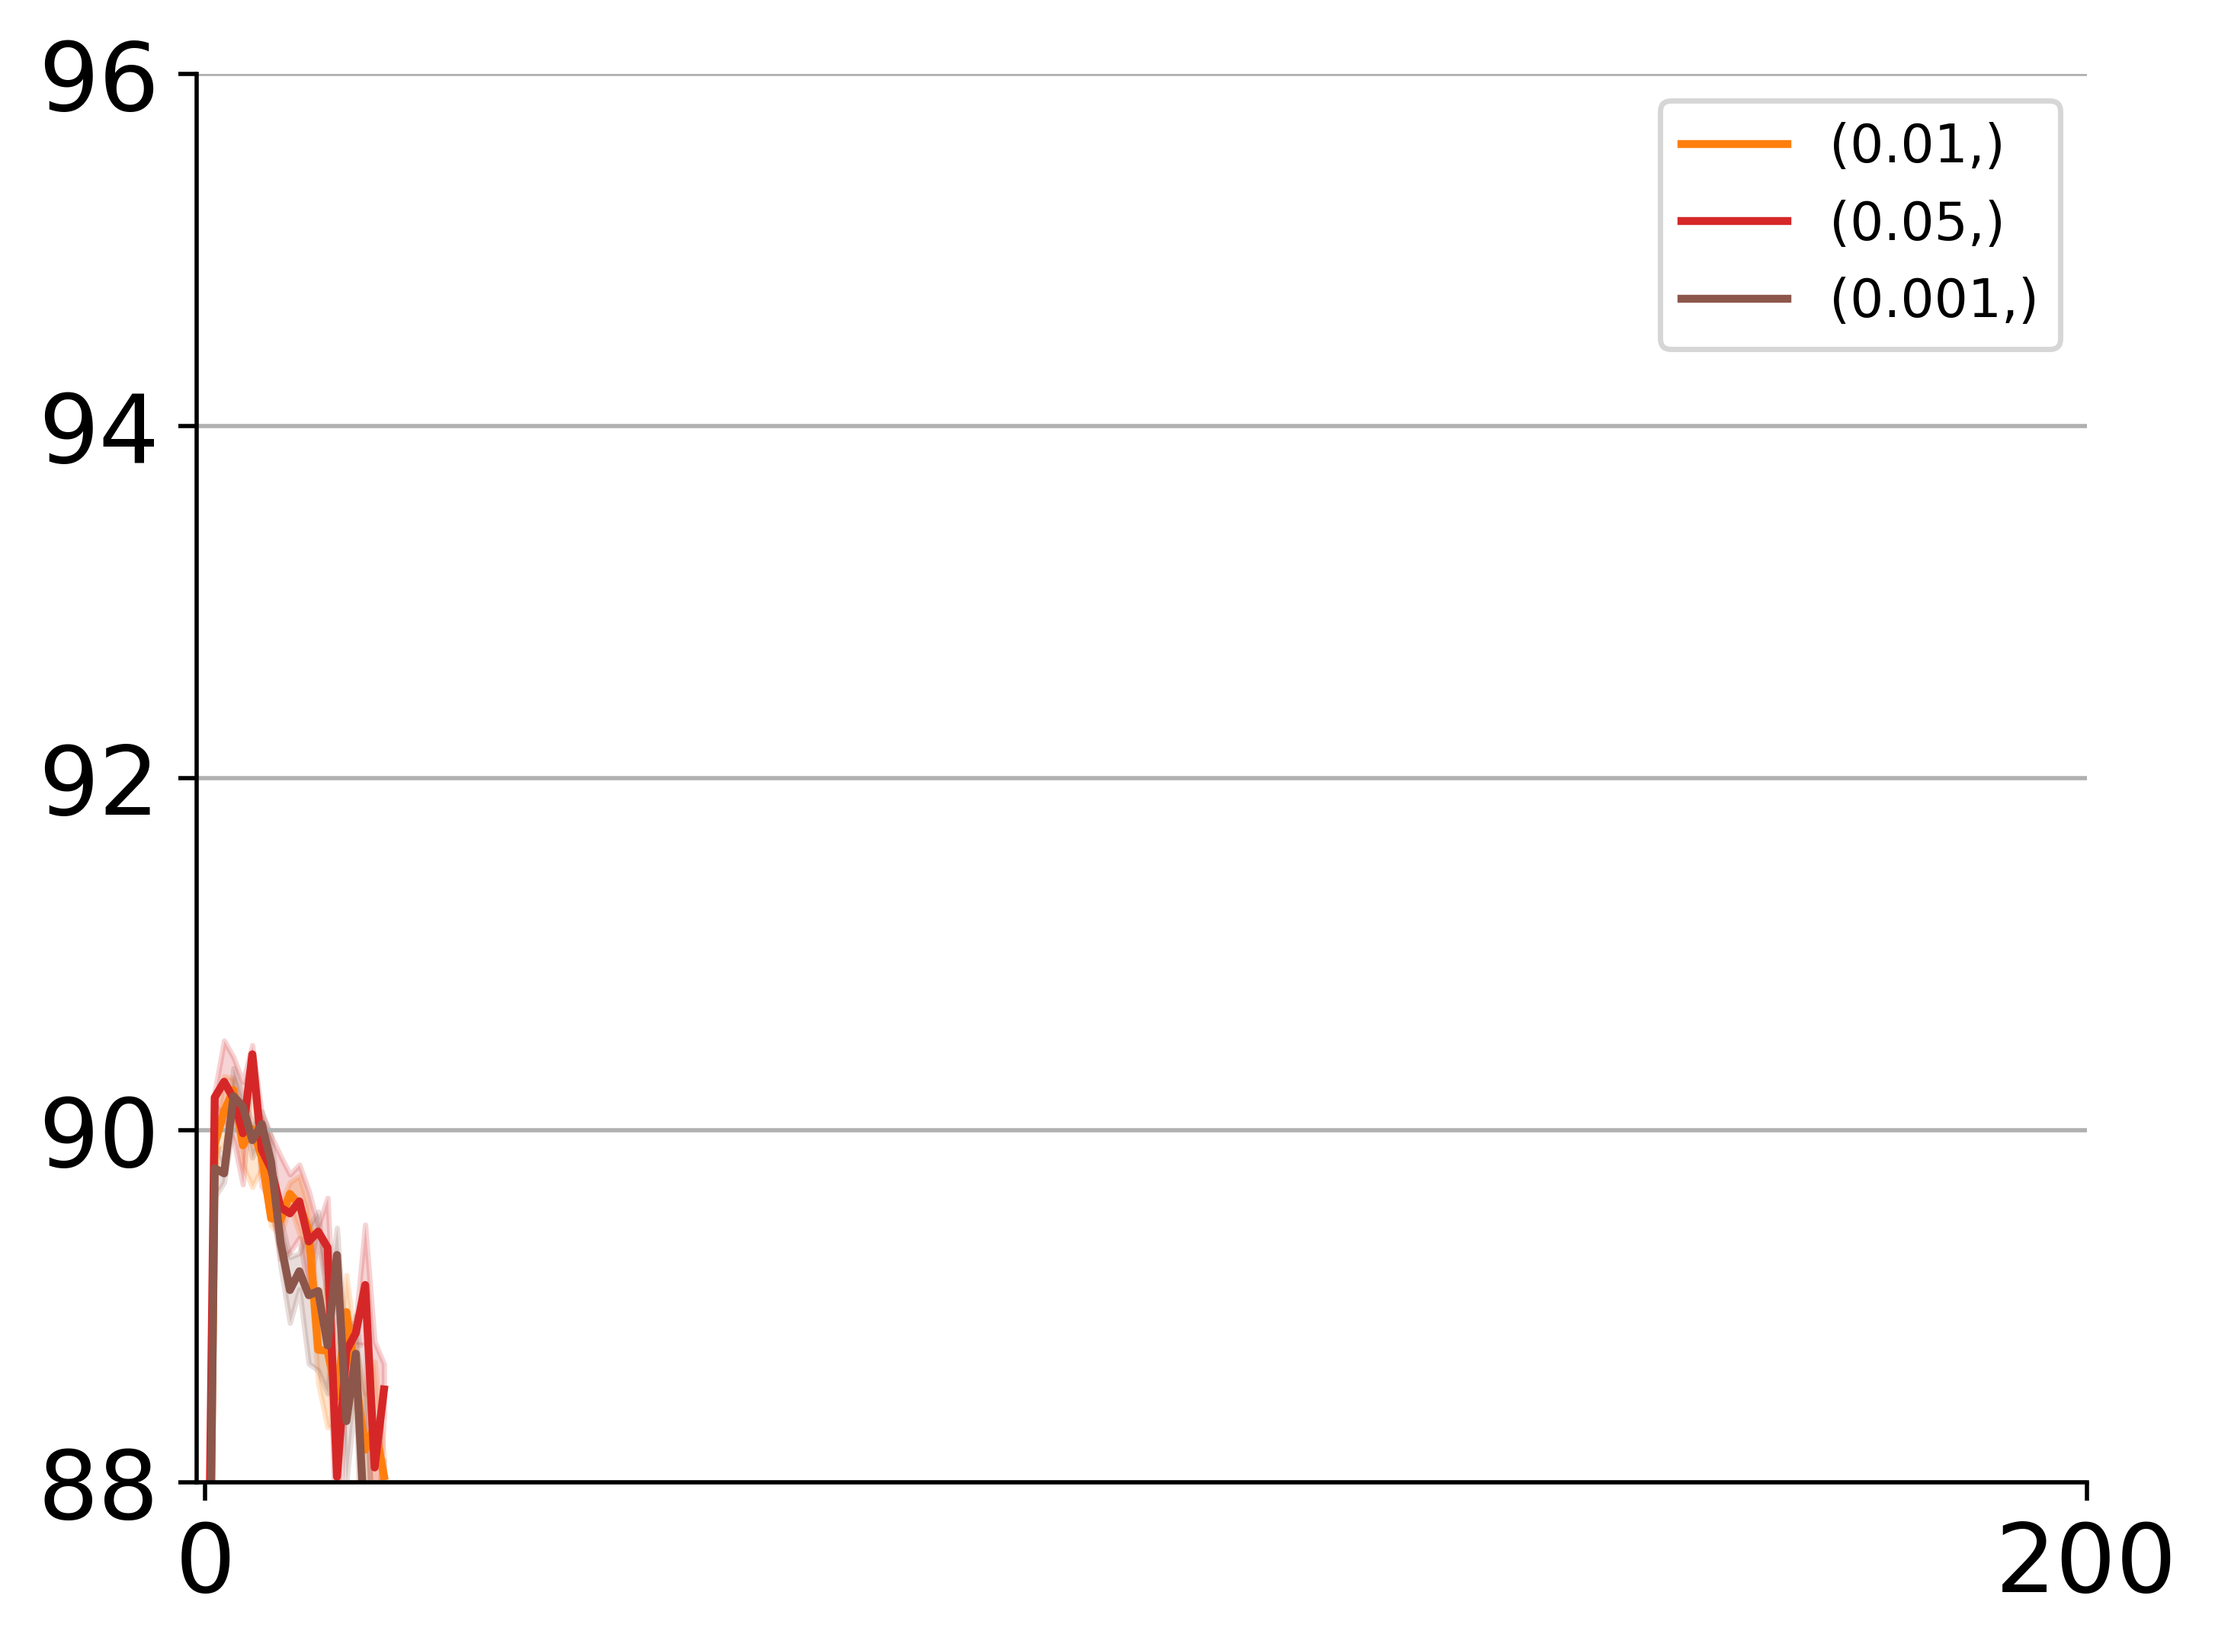
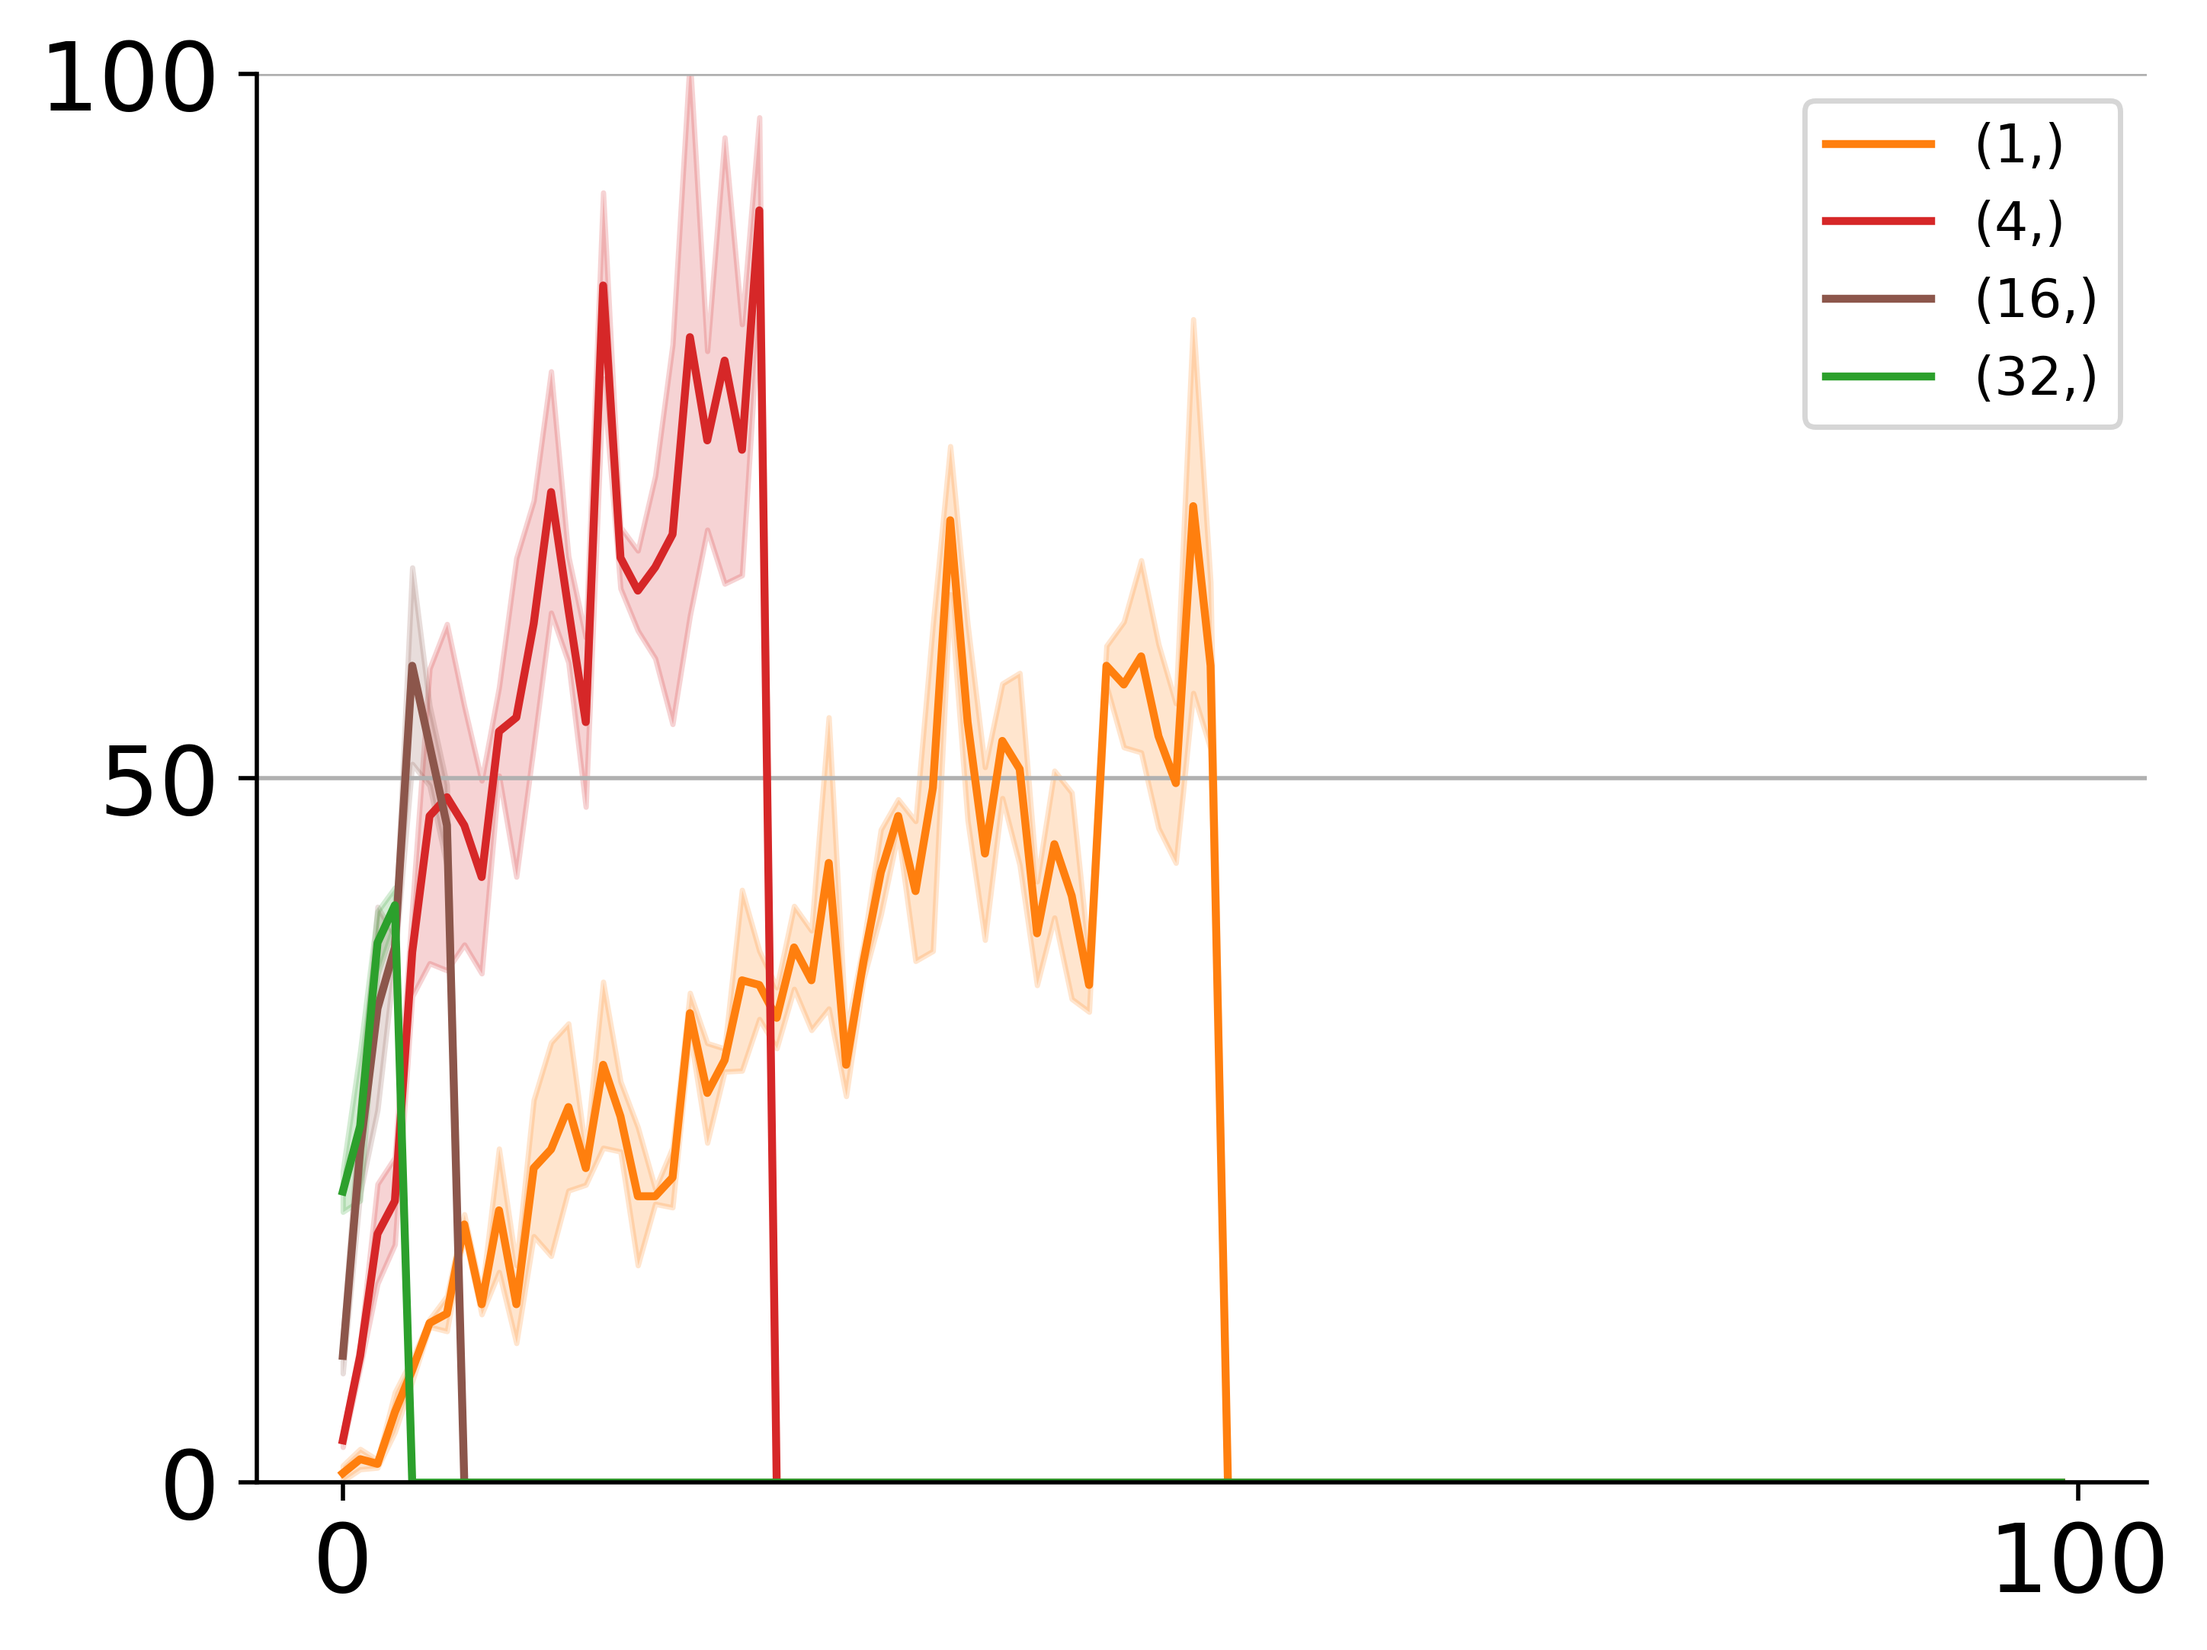
update experiments scripts

diff --git a/lop/permuted_mnist/plots/bp_metrics.py b/lop/permuted_mnist/plots/bp_metrics.py
@@ -24,7 +24,7 @@ def add_cfg_performance(cfg='', setting_idx=0, m=2*10*1000, num_runs=30, metric=
             per_param_setting_performance.append(np.array(bin_m_errs(errs=data['dead_neurons'].sum(dim=1), m=m)))
         elif metric == 'effective_rank':
             rank_normlization = 3*2000/100
-            per_param_setting_performance.append(np.array(bin_m_errs(errs=data['effective_ranks'].sum(dim=1)/rank_normlization, m=m)))
+            per_param_setting_performance.append(np.array(bin_m_errs(errs=data['effective_ranks'], m=m)))
         else:
             per_param_setting_performance.append(np.array(bin_m_errs(errs=data['accuracies'] * 100, m=m)))
             print('Accuracy:', data['accuracies'].mean())
@@ -51,18 +51,18 @@ def main(arguments):
     m = {'weight': 60*1000, 'accuracy': 60*1000, 'dead_neurons': 1, 'effective_rank': 1}[metric]
     num_runs = params['num_runs']
 
-    indices = [i for i in range(3)]
+    indices = [i for i in range(4)]
     for i in indices:
         performances.append(add_cfg_performance(cfg=cfg_file, setting_idx=i, m=m, num_runs=num_runs, metric=metric))
 
-    yticks = {'weight': [0, 0.02, 0.04, 0.06, 0.08, 0.10], 'accuracy': [88, 90, 92, 94, 96],
-              'dead_neurons': [0, 50, 100, 150, 200, 250, 300], 'effective_rank': [0, 10, 20, 30, 40, 50]}[metric]
+    yticks = {'weight': [0, 0.02, 0.04, 0.06, 0.08, 0.10], 'accuracy': [82, 84, 86, 88, 90, 92, 94],
+              'dead_neurons': [0, 50, 100], 'effective_rank': [0, 10, 20, 30, 40, 50, 60, 70, 80]}[metric]
     generate_online_performance_plot(
         performances=performances,
         colors=['C1', 'C3', 'C5', 'C2', 'C4', 'C6'],
         yticks=yticks,
-        xticks=[0, 200*m],
-        xticks_labels=['0', '200'],
+        xticks=[0, 100*m],
+        xticks_labels=['0', '100'],
         m=m,
         fontsize=18,
         labels=param_settings,

diff --git a/lop/permuted_mnist/online_expr.py b/lop/permuted_mnist/online_expr.py
@@ -187,7 +187,7 @@ def online_expr(params):
             # train the network
             loss, network_output = learner.learn(x=batch_x, target=batch_y)
 
-            if(len(buffer_x) % er_batch == 0) and agent_type in ['er'] and not params.get("erank_interleave", False):
+            if agent_type in ['er'] and (len(buffer_x) % er_batch == 0) and not params.get("erank_interleave", False):
                 rank_update_data = torch.cat(buffer_x, dim=0)
                 learner.maximize_effective_rank(rank_update_data, steps=er_step)
                 buffer_x = []

diff --git a/lop/algos/er.py b/lop/algos/er.py
@@ -40,7 +40,7 @@ class EffectiveRank(object):
         # separate optimizer for erank objective
         # you might even choose different hyperparams here:
         self.opt_erank = optim.SGD(net.parameters(),
-                                   lr=erank_step_size)
+                                   lr=erank_step_size, weight_decay=weight_decay)
 
         # loss function mapping
         self.loss = loss

diff --git a/lop/rl/run_ppo.py b/lop/rl/run_ppo.py
@@ -1,4 +1,5 @@
 import os
+os.environ['MUJOCO_GL'] = 'egl'
 import yaml
 import pickle
 import argparse
